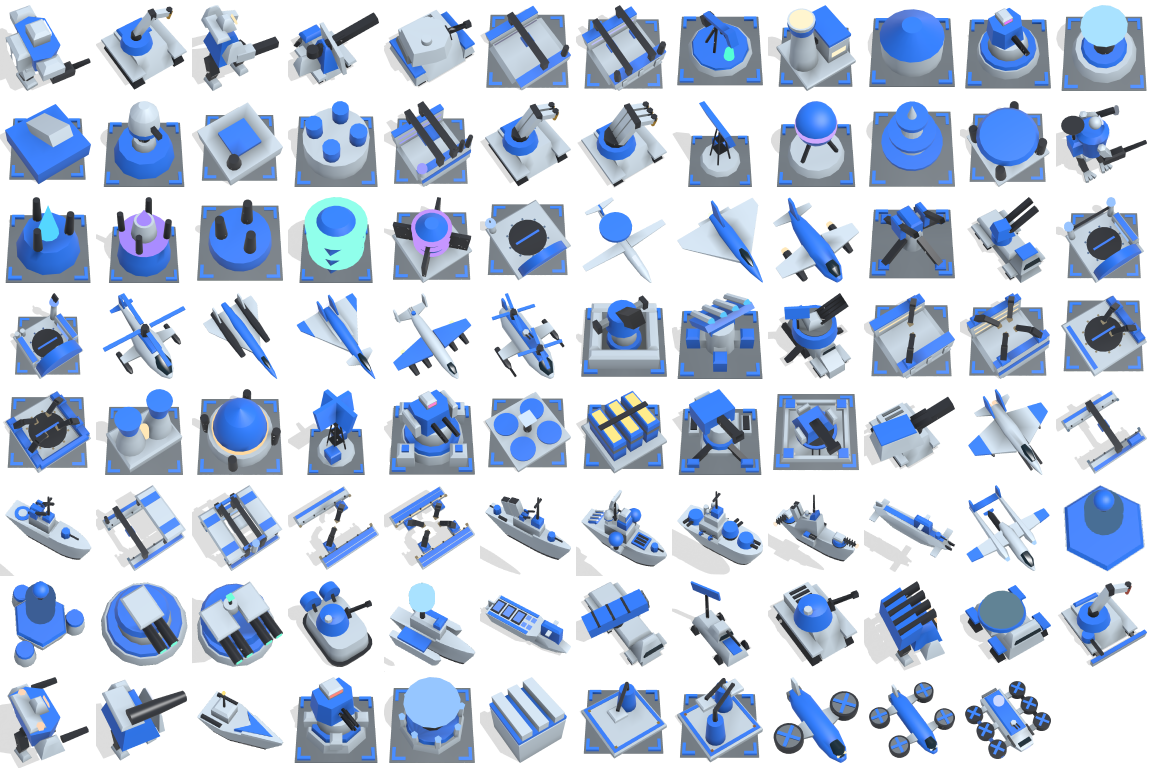
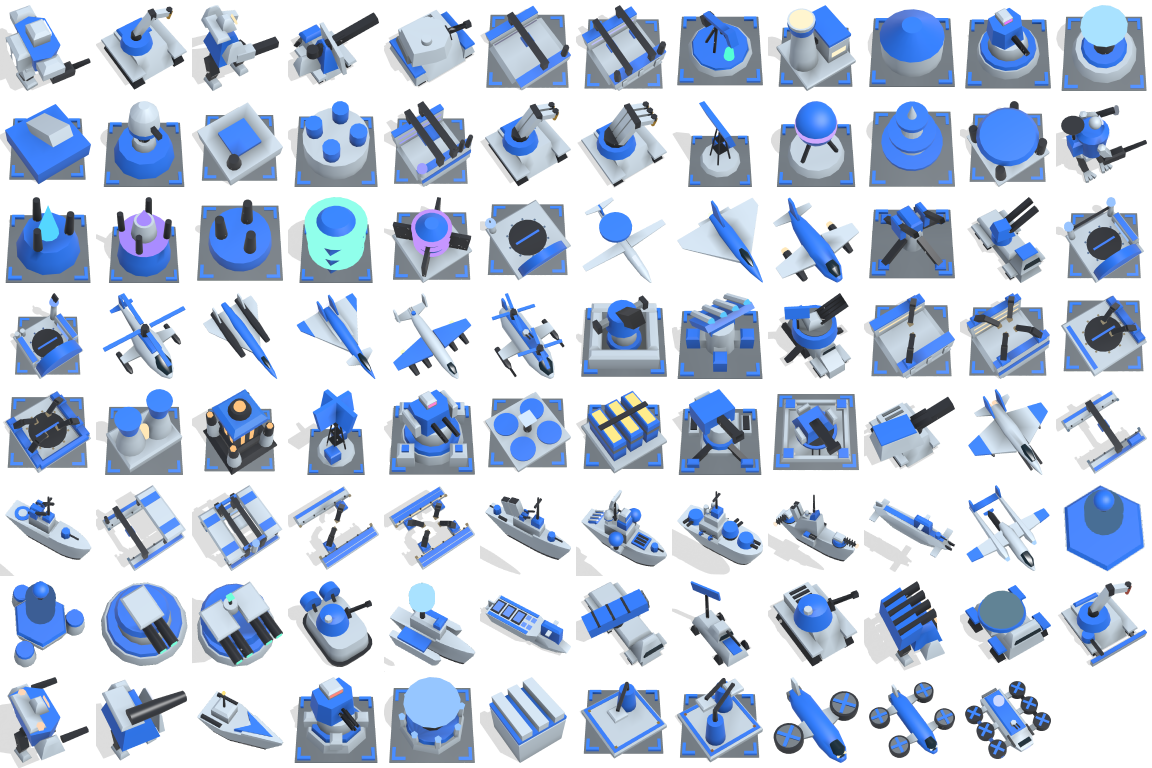
Give the T3 generator a taller reactor silhouette (#95)

Changed region(s): [[0.1562, 0.5, 0.25, 0.625]]

diff --git a/src/render/meshes.rs b/src/render/meshes.rs
@@ -3198,19 +3198,41 @@ fn build_shape(shape: Shape, mesh: &mut MeshBuilder) {
             mesh.frustum([0.0, 0.0], [-0.3, -0.05], [0.1, 0.07], 8);
         }
         Shape::GeneratorT3 => {
-            mesh.paint(Material::Hull);
-            mesh.frustum([0.0, 0.0], [-0.5, -0.2], [0.5, 0.46], 14);
-            mesh.paint(Material::Glow);
-            mesh.frustum([0.0, 0.0], [-0.2, -0.1], [0.4, 0.4], 14);
-            // A dome in three steps.
-            mesh.paint(Material::Trim);
-            mesh.frustum([0.0, 0.0], [-0.1, 0.15], [0.38, 0.32], 14);
-            mesh.frustum([0.0, 0.0], [0.15, 0.35], [0.32, 0.2], 14);
-            mesh.frustum([0.0, 0.0], [0.35, 0.5], [0.2, 0.0], 14);
+            // The dark, wide footing carries a tall reactor with four braced cooling towers.
             mesh.paint(Material::Metal);
-            for (x, y) in [(0.36_f32, 0.36_f32), (-0.36, 0.36), (-0.36, -0.36), (0.36, -0.36)] {
-                mesh.frustum([x, y], [-0.5, -0.05], [0.07, 0.06], 6);
+            mesh.bevel([-0.49, -0.49, -0.5], [0.49, 0.49, -0.38], 0.09);
+            mesh.bevel([-0.29, -0.29, -0.38], [0.29, 0.29, -0.23], 0.05);
+            for x in [-0.33_f32, 0.33] {
+                for y in [-0.33_f32, 0.33] {
+                    mesh.paint(Material::Hull);
+                    mesh.frustum([x, y], [-0.38, -0.07], [0.13, 0.085], 6);
+                    mesh.paint(Material::Metal);
+                    mesh.frustum([x, y], [-0.07, 0.12], [0.085, 0.068], 6);
+                    mesh.paint(Material::Glow);
+                    mesh.frustum([x, y], [0.12, 0.15], [0.052, 0.045], 6);
+                }
             }
+
+            // Paired vertical light slots on each face identify the core from any approach.
+            mesh.paint(Material::Metal);
+            mesh.bevel([-0.215, -0.215, -0.29], [0.215, 0.215, 0.30], 0.04);
+            mesh.paint(Material::Glow);
+            for side in [-0.215_f32, 0.215] {
+                for center in [-0.085_f32, 0.085] {
+                    let low = center - 0.035;
+                    let high = center + 0.035;
+                    mesh.block([low, side - 0.012, -0.20], [high, side + 0.012, 0.25]);
+                    mesh.block([side - 0.012, low, -0.20], [side + 0.012, high, 0.25]);
+                }
+            }
+
+            // Team color on the armored crown, with a small lit vent visible from overhead.
+            mesh.paint(Material::Trim);
+            mesh.bevel([-0.29, -0.29, 0.24], [0.29, 0.29, 0.39], 0.07);
+            mesh.paint(Material::Metal);
+            mesh.frustum([0.0, 0.0], [0.39, 0.47], [0.17, 0.13], 8);
+            mesh.paint(Material::Glow);
+            mesh.frustum([0.0, 0.0], [0.47, 0.5], [0.085, 0.075], 8);
         }
         Shape::ExtractorT2 => {
             mesh.frustum([0.0, 0.0], [-0.5, -0.1], [0.5, 0.36], 6);

diff --git a/src/render/instances.rs b/src/render/instances.rs
@@ -1236,7 +1236,7 @@ pub fn unit_look(key: &str) -> UnitLook {
         "air_factory_t2_support" => look(Shape::AirFactoryT2Support, Some([0.66, 0.60, 0.46]), 0.58),
         "air_factory_t3_support" => look(Shape::AirFactoryT3Support, Some([0.52, 0.46, 0.34]), 0.72),
         "power_generator_t2" => look(Shape::GeneratorT2, Some([1.00, 0.88, 0.62]), 1.0),
-        "power_generator_t3" => look(Shape::GeneratorT3, Some([1.00, 0.80, 0.50]), 0.9),
+        "power_generator_t3" => look(Shape::GeneratorT3, Some([1.00, 0.69, 0.33]), 1.25),
         "radar_t2" => look(Shape::RadarT2, Some([0.50, 0.95, 0.75]), 1.45),
         "t2_point_defense" => UnitLook { base: Some(Shape::PointDefenseBaseT2), ..look(Shape::PointDefenseT2, Some([0.85, 0.30, 0.65]), 1.0) },
         "air_factory_t2" => look(Shape::AirFactoryT2, Some([0.30, 0.45, 0.65]), 0.65),
